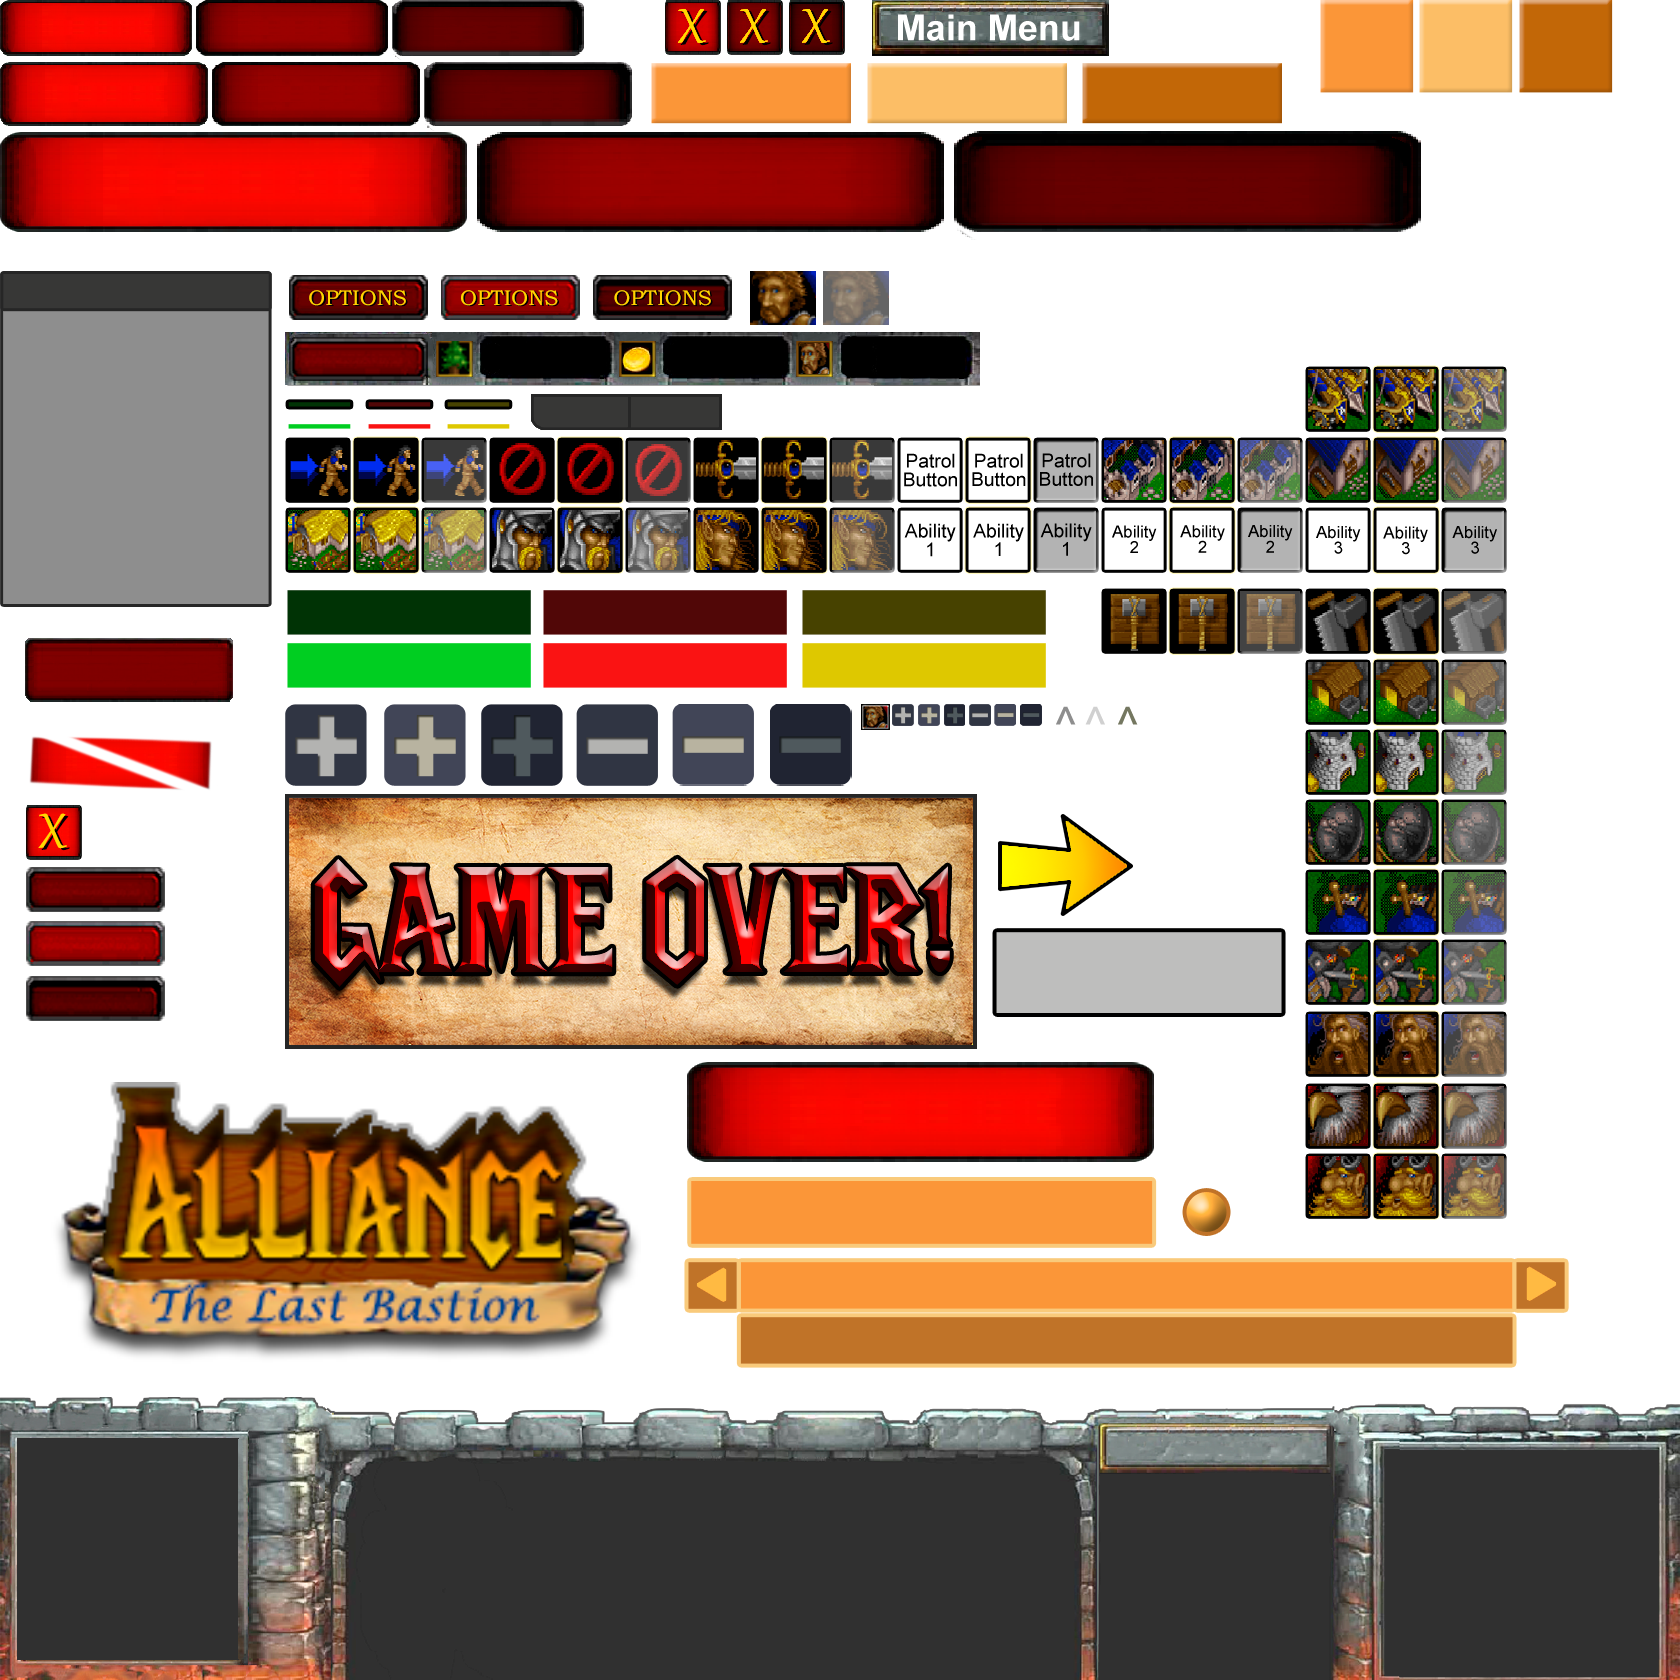
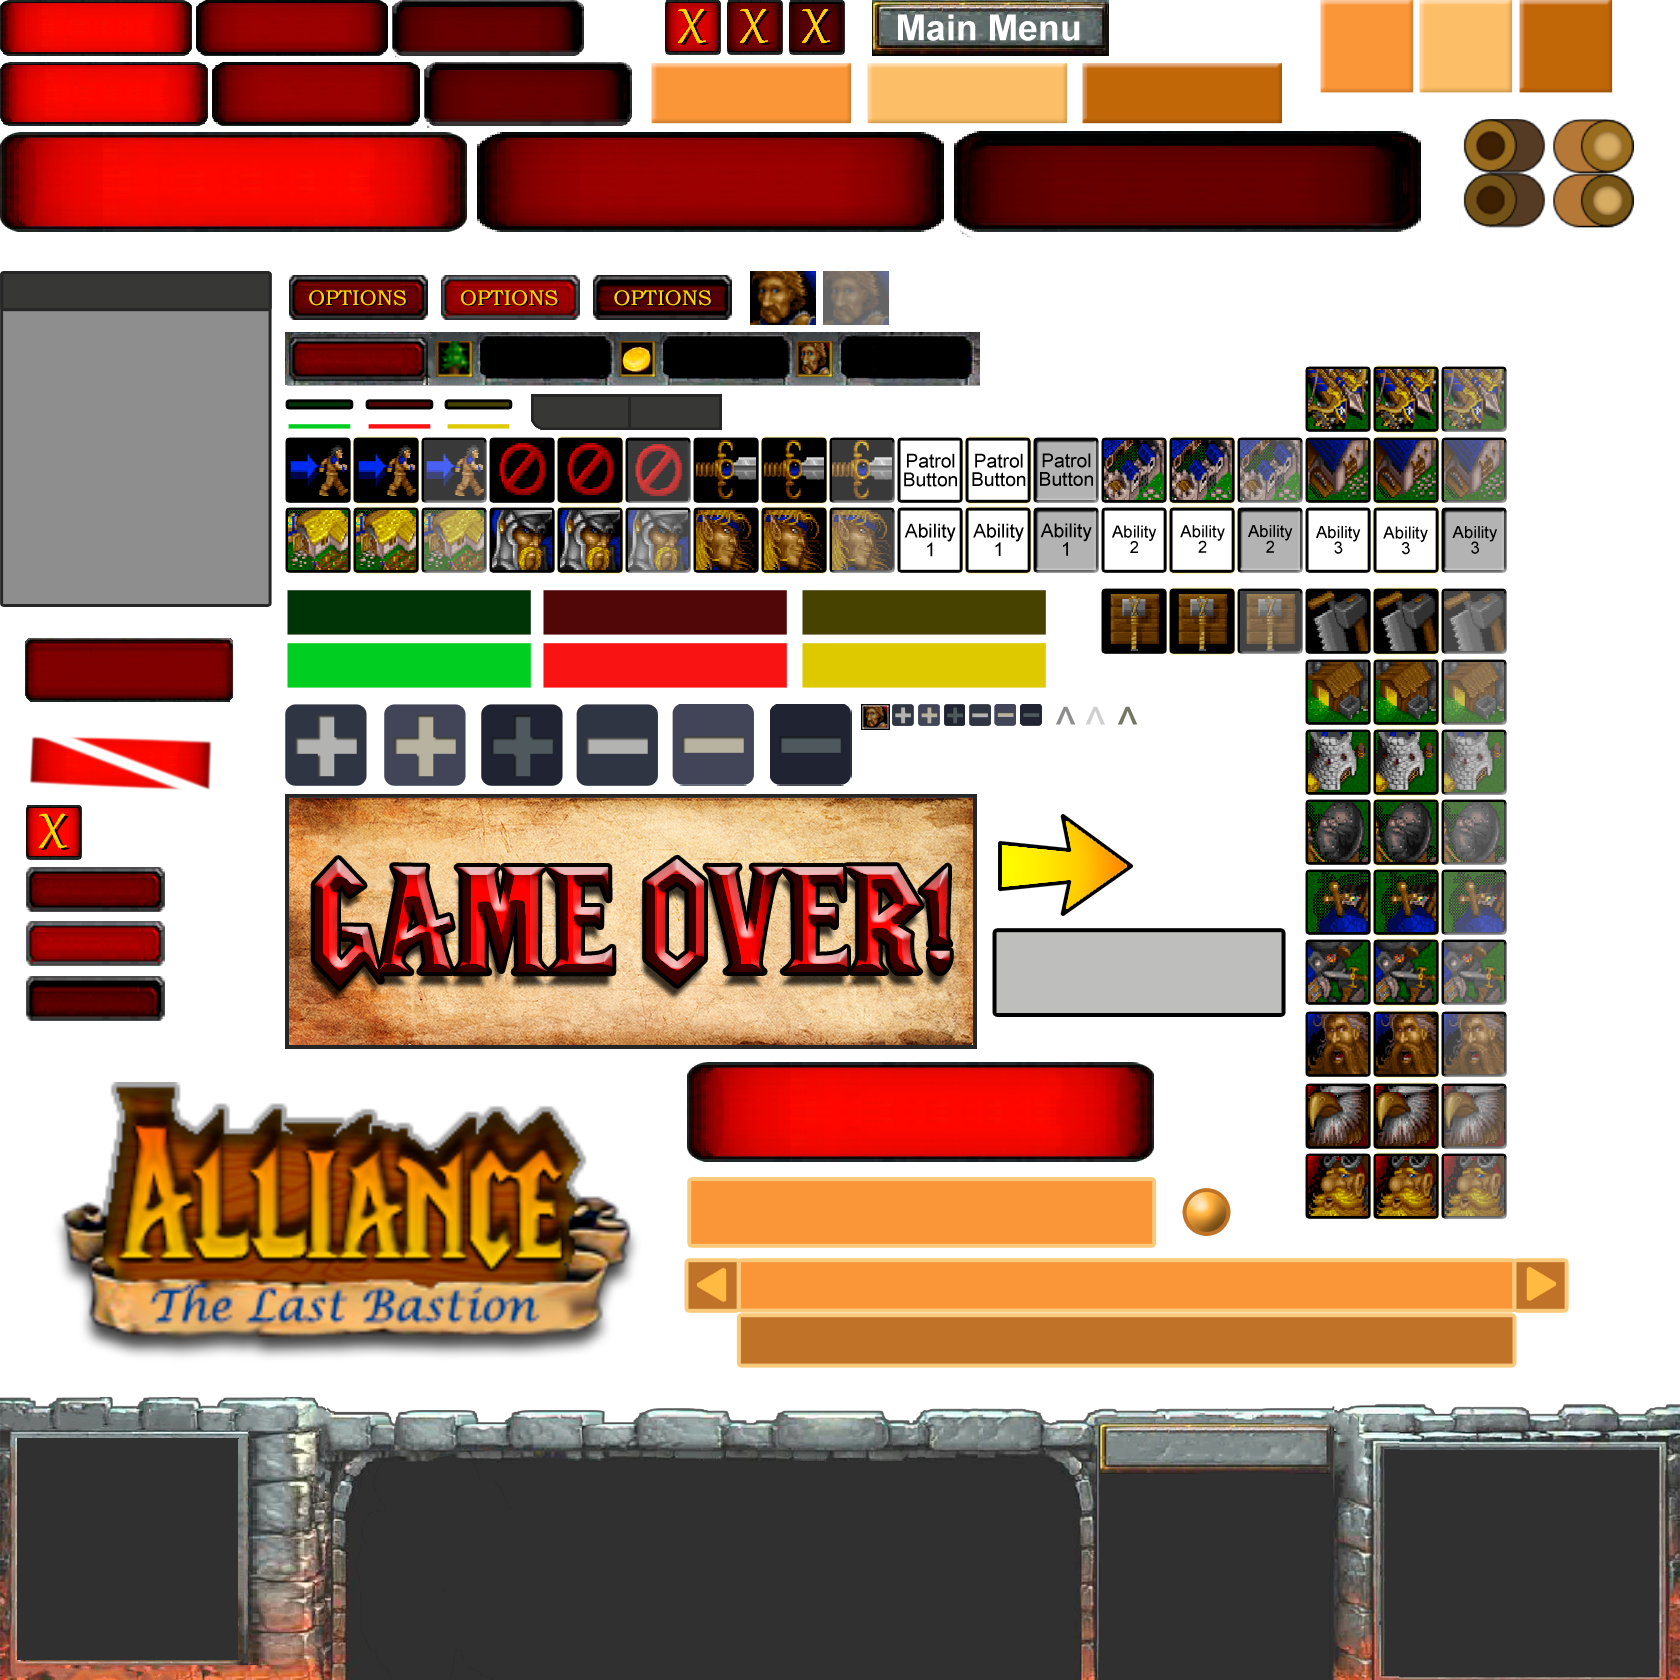
Added switch

Changed region(s): [[0.8667, 0.0619, 0.9905, 0.1548]]

diff --git a/Motor2D/j1Gui.cpp b/Motor2D/j1Gui.cpp
@@ -487,6 +487,8 @@ void j1Gui::Load_UIElements(pugi::xml_node node, menu* menu, j1Module* callback,
 			element = createImage(tmp, callback);
 		else if (type == "button")
 			element = createButton(tmp, callback);
+		else if (type == "switch")
+			element = createSwitch(tmp, callback);
 		else if (type == "window")
 			element = createWindow(tmp, callback);
 		else if (type == "progressbar")
@@ -663,6 +665,39 @@ Button* j1Gui::createButton(pugi::xml_node node, j1Module* callback, bool saveIn
 		SDL_Scancode key = (SDL_Scancode)(*letter.c_str() - 61);
 		ret->setHotkey(key);
 		ret->displayHotkey(true, App->font->getFont(hotkey.attribute("font_id").as_int()), { 0,0,0,255 }, true);
+	}
+
+	if (saveIntoGUI)
+		Buttons.push_back(ret);
+
+	return ret;
+}
+
+Button* j1Gui::createSwitch(pugi::xml_node node, j1Module * callback, bool saveIntoGUI)
+{
+	SDL_Texture* texture = nullptr;
+	if (node.attribute("path"))
+		texture = App->tex->Load(node.attribute("path").as_string());
+	else
+		texture = atlas;
+
+	int x = node.child("position").attribute("x").as_int();
+	int y = node.child("position").attribute("y").as_int();
+
+	SDL_Rect standbyOff = { node.child("standbyOff").attribute("x").as_int(), node.child("standbyOff").attribute("y").as_int(), node.child("standbyOff").attribute("w").as_int(), node.child("standbyOff").attribute("h").as_int() };
+	SDL_Rect OnMouseOff = { node.child("OnMouseOff").attribute("x").as_int(), node.child("OnMouseOff").attribute("y").as_int(), node.child("OnMouseOff").attribute("w").as_int(), node.child("OnMouseOff").attribute("h").as_int() };
+	SDL_Rect standbyOn = { node.child("standbyOn").attribute("x").as_int(), node.child("standbyOn").attribute("y").as_int(), node.child("standbyOn").attribute("w").as_int(), node.child("standbyOn").attribute("h").as_int() };
+	SDL_Rect OnMouseOn = { node.child("OnMouseOn").attribute("x").as_int(), node.child("OnMouseOn").attribute("y").as_int(), node.child("OnMouseOn").attribute("w").as_int(), node.child("OnMouseOn").attribute("h").as_int() };
+
+	Button* ret = new Button(x, y, texture, standbyOff, OnMouseOff, standbyOn, OnMouseOn, callback);
+
+	if (SDL_GetWindowFlags(App->win->window) & SDL_WINDOW_FULLSCREEN)
+		ret->switchOn = true;
+
+	if (node.attribute("click_action"))
+	{
+		ret->clickAction = (actionType)node.attribute("click_action").as_int(0);
+		ret->hasClickAction = true;
 	}
 
 	if (saveIntoGUI)

diff --git a/Motor2D/j1ActionsController.cpp b/Motor2D/j1ActionsController.cpp
@@ -318,6 +318,24 @@ bool j1ActionsController::Update(float dt)
 		case CHANGE_FX:
 			App->audio->ModifySFXVolume(App->gui->getSliderProgress(CHANGE_FX));
 			break;
+		case TOGGLE_FULLSCREEN:
+			if (SDL_GetWindowFlags(App->win->window) & SDL_WINDOW_FULLSCREEN)
+			{
+				SDL_SetWindowFullscreen(App->win->window, 0);
+				/*SDL_DisplayMode default_resolution;
+				SDL_GetCurrentDisplayMode(0, &default_resolution);
+				App->win->width = default_resolution.w;
+				App->win->height = default_resolution.h;*/
+			}
+			else
+			{
+				SDL_SetWindowFullscreen(App->win->window, SDL_WINDOW_FULLSCREEN);
+				/*App->win->width = 1680;
+				App->win->height = 1050;*/
+			}
+
+			doingAction = false;
+			break;
 
 		case CHANGE_KEY_1:
 			App->input->readHotkey(0);
@@ -353,17 +371,6 @@ bool j1ActionsController::Update(float dt)
 			break;
 		case CHANGE_KEY_9:
 			App->input->readHotkey(8);
-			doingAction = false;
-			break;
-		case TUTORIAL:
-			if (App->tutorial->active == true)
-			{
-				App->tutorial->active = false;
-			}
-			else if (App->tutorial->active == false)
-			{
-				App->tutorial->active = true;
-			}
 			doingAction = false;
 			break;
 		}

diff --git a/Motor2D/UI_Button.cpp b/Motor2D/UI_Button.cpp
@@ -19,21 +19,22 @@ void Button::BlitElement()
 		switch (state)
 		{
 		case STANDBY:
-			App->render->Blit(texture, globalPos.x, globalPos.y, &section, use_camera, true, 1.0f, flip);
+			if (this->element_type == BUTTON || !switchOn)
+				App->render->Blit(texture, globalPos.x, globalPos.y, &section, use_camera, true, 1.0f, flip);
+			else
+				App->render->Blit(texture, globalPos.x, globalPos.y, &OnClick, use_camera, true, 1.0f, flip);
 			break;
 		case MOUSEOVER:
-			App->render->Blit(texture, globalPos.x, globalPos.y, &OnMouse, use_camera, true, 1.0f, flip);
+			if (this->element_type == BUTTON || !switchOn)
+				App->render->Blit(texture, globalPos.x, globalPos.y, &OnMouse, use_camera, true, 1.0f, flip);
+			else
+				App->render->Blit(texture, globalPos.x, globalPos.y, &OnMouseOn, use_camera, true, 1.0f, flip);
 			break;
 		case LOCKED:
 		case LOCKED_MOUSEOVER:
 		case CLICKED:
 			App->render->Blit(texture, globalPos.x, globalPos.y, &OnClick, use_camera, true, 1.0f, flip);
 			break;
-		}
-
-		if (displayingHotkey && hotkey_text != nullptr)
-		{
-			//hotkey_text->BlitElement();
 		}
 
 		UI_element::BlitElement();

diff --git a/Motor2D/j1UIScene.cpp b/Motor2D/j1UIScene.cpp
@@ -97,19 +97,6 @@ bool j1UIScene::Start()
 
 bool j1UIScene::Update(float dt)
 {
-	Text* tutorial_on = (Text*)App->gui->GetElement(TEXT, 38);
-	Text* tutorial_off = (Text*)App->gui->GetElement(TEXT, 39);
-
-	if (App->tutorial->active == true)
-	{
-		tutorial_on->active = true;
-		tutorial_off->active = false;
-	}
-	else if (App->tutorial->active == false)
-	{
-		tutorial_off->active = true;
-		tutorial_on->active = false;
-	}
 
 	return true;
 }
@@ -172,6 +159,8 @@ bool j1UIScene::OnUIEvent(UI_element* element, event_type event_type)
 		if (event_type == MOUSE_LEFT_CLICK)
 		{
 			element->state = CLICKED;
+			if (element->element_type == SWITCH)
+				((Button*)element)->switchOn = !((Button*)element)->switchOn;
 
 			if (element->hasClickAction)
 				App->actionscontroller->activateAction(element->clickAction);

diff --git a/Motor2D/j1Gui.h b/Motor2D/j1Gui.h
@@ -98,6 +98,7 @@ public:
 	Image* createImageFromAtlas(pugi::xml_node node, j1Module* callback = nullptr, bool use_icon_atlas = false, bool saveIntoGUI = true);
 	//NULL texture to use atlas
 	Button* createButton(pugi::xml_node node, j1Module* callback = nullptr, bool saveIntoGUI = true);
+	Button* createSwitch(pugi::xml_node node, j1Module* callback = nullptr, bool saveIntoGUI = true);
 	Window* createWindow(pugi::xml_node node, j1Module* callback = nullptr, bool saveIntoGUI = true);
 	ProgressBar* createProgressBar(pugi::xml_node node, j1Module* callback = nullptr, bool saveIntoGUI = true);
 	IngameMenu* createIngameMenu(pugi::xml_node node, j1Module* callback = nullptr);

diff --git a/Motor2D/UI_Button.h b/Motor2D/UI_Button.h
@@ -15,6 +15,12 @@ public:
 		OnClick(OnClick)
 	{}
 
+	Button(int x, int y, SDL_Texture* texture, SDL_Rect standbyOff, SDL_Rect OnMouseOff, SDL_Rect standbyOn, SDL_Rect OnMouseOn, j1Module* callback) : UI_element(x, y, element_type::SWITCH, standbyOff, callback, texture),
+		OnMouse(OnMouseOff),
+		OnClick(standbyOn),
+		OnMouseOn(OnMouseOn)
+	{}
+
 	~Button()
 	{}
 
@@ -29,7 +35,9 @@ public:
 
 	SDL_Rect OnMouse = { 0,0,0,0 };
 	SDL_Rect OnClick = { 0,0,0,0 };
+	SDL_Rect OnMouseOn = { 0,0,0,0 };
 	bool clicked = false;
+	bool switchOn = false;
 
 private:
 

diff --git a/Motor2D/j1ActionsController.h b/Motor2D/j1ActionsController.h
@@ -51,6 +51,7 @@ enum actionType
 	CHOOSE_PALADIN,
 	CHANGE_MUSIC,
 	CHANGE_FX,
+	TOGGLE_FULLSCREEN,
 
 	CHANGE_KEY_1 = 50,
 	CHANGE_KEY_2,
@@ -60,9 +61,7 @@ enum actionType
 	CHANGE_KEY_6,
 	CHANGE_KEY_7,
 	CHANGE_KEY_8,
-	CHANGE_KEY_9,
-
-	TUTORIAL
+	CHANGE_KEY_9
 };
 
 class j1ActionsController : public j1Module

diff --git a/Motor2D/UI_Slider.cpp b/Motor2D/UI_Slider.cpp
@@ -10,7 +10,7 @@ full(full),
 bar_length(full.w),
 progress(default_progress)
 {
-	progress_num = new Text("", x, y, App->font->getFont(1), { 255,255,255,255 }, nullptr);
+	progress_num = new Text("", x, y, App->font->getFont(1), { 0,0,0,255 }, nullptr);
 	appendChild(progress_num);
 }
 

diff --git a/Motor2D/UI_element.h b/Motor2D/UI_element.h
@@ -25,7 +25,8 @@ enum element_type
 	COSTDISPLAY,
 	WORKERSDISPLAY,
 	PRODUCTIONDISPLAY,
-	SLIDER
+	SLIDER,
+	SWITCH
 };
 
 enum element_state
